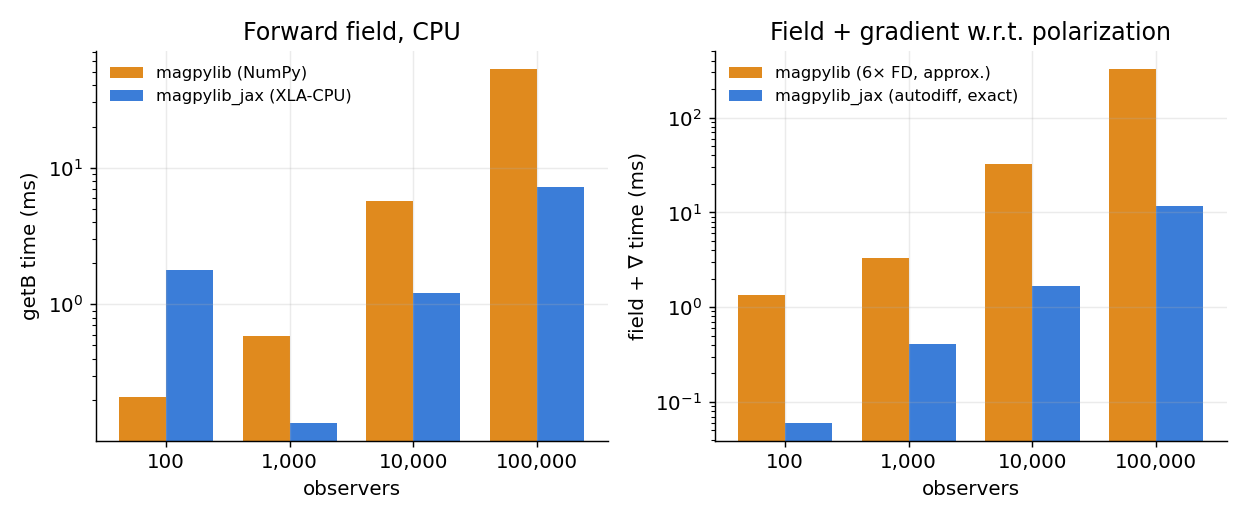
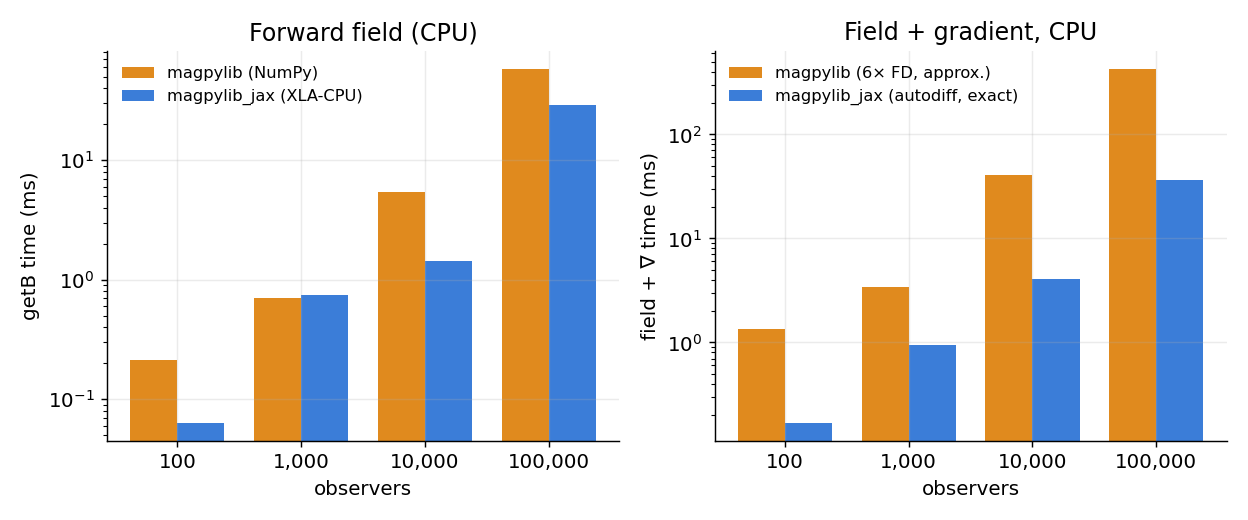
Device-aware benchmark, jittable-getFT docs, and 2.1.0 metadata
Benchmark panels now label the active JAX backend (CPU/GPU/TPU) so a GPU run of
make_figures.py self-documents; README/PLAN note that getFT is jittable and
differentiable when geometry/meshing are static (jax.jit(jax.grad(loss)) compiles
once). Bump to 2.1.0 with changelog covering the broadened getFT targets, deeper
docs, the meshing-kwarg fix, and this.

diff --git a/scripts/make_figures.py b/scripts/make_figures.py
@@ -3,10 +3,14 @@
 Outputs PNGs into ``docs/_static/``:
 - ``field_map.png``       B-field streamlines around a cuboid magnet.
 - ``optimization.png``    Differentiable inverse-design: fit a dipole to a target field.
-- ``benchmark.png``       Batched getB runtime vs magpylib, and gradient timing.
+- ``benchmark.png``       Batched getB runtime vs magpylib, and gradient timing. The panel
+                          titles report the active JAX backend (CPU/GPU/TPU), so running this
+                          on a GPU host self-documents the device.
 - ``force_distance.png``  Autodiff getFT force between two magnets vs separation.
+- ``show.png``            3-D ``show()`` of a small scene.
 
-Run: ``python scripts/make_figures.py``  (needs matplotlib + magpylib).
+Run: ``python scripts/make_figures.py``  (needs matplotlib + magpylib). Run it on a GPU host to
+regenerate ``benchmark.png`` with GPU numbers.
 """
 
 from __future__ import annotations
@@ -137,6 +141,7 @@ def fig_benchmark() -> None:
     """
     import magpylib as magpy
 
+    dev = jax.default_backend().upper()  # CPU / GPU / TPU — self-documents the run
     sizes = [100, 1000, 10000, 100000]
     t_jax, t_ref = [], []
     for n in sizes:
@@ -154,7 +159,7 @@ def fig_benchmark() -> None:
     ax1.bar(x - w / 2, np.array(t_ref) * 1e3, w, label="magpylib (NumPy)", color=C_REF)
     ax1.bar(x + w / 2, np.array(t_jax) * 1e3, w, label="magpylib_jax (XLA-CPU)", color=C_JAX)
     ax1.set(xticks=x, xticklabels=[f"{s:,}" for s in sizes], xlabel="observers",
-            ylabel="getB time (ms)", title="Forward field, CPU")
+            ylabel="getB time (ms)", title=f"Forward field ({dev})")
     ax1.set_yscale("log")
     ax1.legend(frameon=False, fontsize=9)
 
@@ -197,7 +202,7 @@ def fig_benchmark() -> None:
     ax2.bar(xg + w / 2, np.array(t_grad_jax) * 1e3, w,
             label="magpylib_jax (autodiff, exact)", color=C_JAX)
     ax2.set(xticks=xg, xticklabels=[f"{s:,}" for s in gsizes], xlabel="observers",
-            ylabel="field + ∇ time (ms)", title="Field + gradient w.r.t. polarization")
+            ylabel="field + ∇ time (ms)", title=f"Field + gradient, {dev}")
     ax2.set_yscale("log")
     ax2.legend(frameon=False, fontsize=9)
     fig.tight_layout()

diff --git a/src/magpylib_jax/__init__.py b/src/magpylib_jax/__init__.py
@@ -25,7 +25,7 @@ from magpylib_jax.magnet import (
 from magpylib_jax.misc import CustomSource, Dipole, Triangle
 from magpylib_jax.sensor import Sensor
 
-__version__ = "2.0.0"
+__version__ = "2.1.0"
 
 __all__ = [
     "Circle",

diff --git a/CHANGELOG.md b/CHANGELOG.md
@@ -1,6 +1,18 @@
 # Changelog
 
-## Unreleased
+## 2.1.0 - 2026-07-13
+
+### Added
+
+- **`getFT` now supports all magnet and triangle-current targets** — Cylinder, CylinderSegment,
+  Tetrahedron, TriangularMesh, TriangleStrip, and TriangleSheet, in addition to Dipole/Sphere/
+  Cuboid/Circle/Polyline. Meshing replicates magpylib's `target_meshing`; parity vs `magpy.getFT`
+  is ~1e-10 (magnets) and ~1e-16 (currents). Only `Triangle` (surface charge) and `CustomSource`
+  remain unsupported targets.
+- **getFT tutorial and show() gallery** docs pages, and per-kernel citations plus a force/torque
+  derivation in the equations reference.
+- **Device-aware benchmark** — `scripts/make_figures.py` labels the benchmark panels with the
+  active JAX backend (CPU/GPU/TPU), so re-running on a GPU host self-documents the device.
 
 ### Fixed
 
@@ -8,6 +20,11 @@
   sources stored `meshing` and current/misc sources raised `TypeError` on `meshing=...`; `getFT`
   reads `target.meshing`, so this now works uniformly (`meshing` is handled once in `BaseGeo`).
   Found by smoke-testing the published wheel.
+
+### Notes
+
+- `getFT` is jittable and differentiable when geometry/`meshing` are static (only excitation/pose
+  traced): `jax.jit(jax.grad(loss))` over a `getFT`-based loss compiles once.
 
 ## 2.0.0 - 2026-07-13
 

diff --git a/PLAN.md b/PLAN.md
@@ -61,10 +61,11 @@ A JAX-native, **end-to-end differentiable** reimplementation of [magpylib](https
 - ✅ **`show()`** — matplotlib 3-D visualization of all sources/sensors/collections/paths;
   display is no longer out of scope.
 
-**Follow-ups noted:** `getFT` compiles a fresh `jacfwd` graph per call (like the object-API
-`getB`, it is differentiable but not itself jit-cached); fine for correctness/grad, a perf tuning
-target. `engine.py`/`prepare.py` remain large (single big functions); the 32-arg `per_source`
-(D4) could later become a pytree.
+**Follow-ups noted:** `getFT` re-traces on each *eager* call, but is jittable and differentiable
+when geometry/`meshing` are static (only excitation/pose traced) — `jax.jit(jax.grad(loss))`
+compiles once, same as `getB`. `engine.py`/`prepare.py` remain large (single big functions); the
+32-arg `per_source` (D4) could later become a pytree. GPU/TPU throughput numbers still need a run
+on such a host (`scripts/make_figures.py` is device-aware).
 
 **Architecture note (pragmatic deviation):** the public namespaces `magnet/`, `current/`,
 `misc/` are kept (they already map cleanly to magpylib and are intuitive) rather than folded

diff --git a/README.md b/README.md
@@ -142,7 +142,13 @@ paid once (the intended usage inside an optimization loop):
 
 Two caveats worth knowing: **`jax.jit` your field function and reuse it** (the eager object API
 pays per-call dispatch overhead that dominates small problems), and for timing wrap results in
-`jax.block_until_ready(...)` so you measure compute, not async dispatch.
+`jax.block_until_ready(...)` so you measure compute, not async dispatch. This applies to `getFT`
+too — it is jittable and differentiable when the geometry and `meshing` are static (only the
+excitation/pose are traced), so `jax.jit(jax.grad(loss))` over a `getFT`-based loss compiles once.
+
+> The benchmark is CPU. The panel titles report the active backend, so re-running
+> `python scripts/make_figures.py` on a GPU/TPU host regenerates the figure with that device's
+> numbers, where the batched, fused kernels parallelize much further.
 
 ## Visualize with `show()`
 
